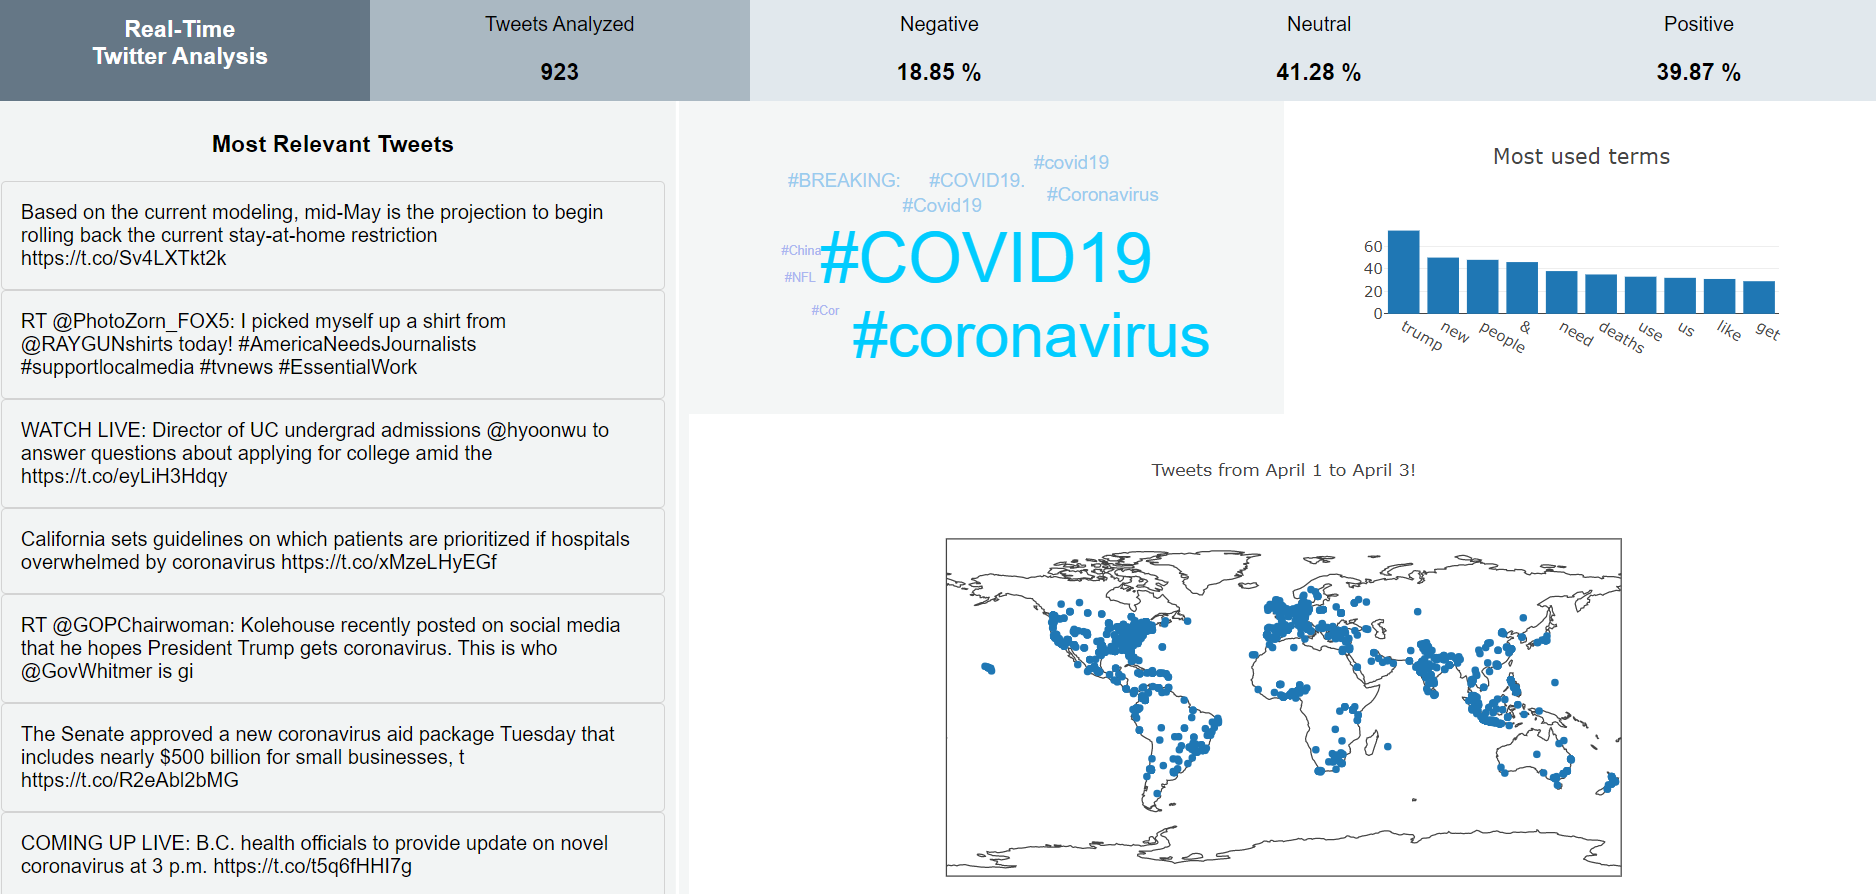
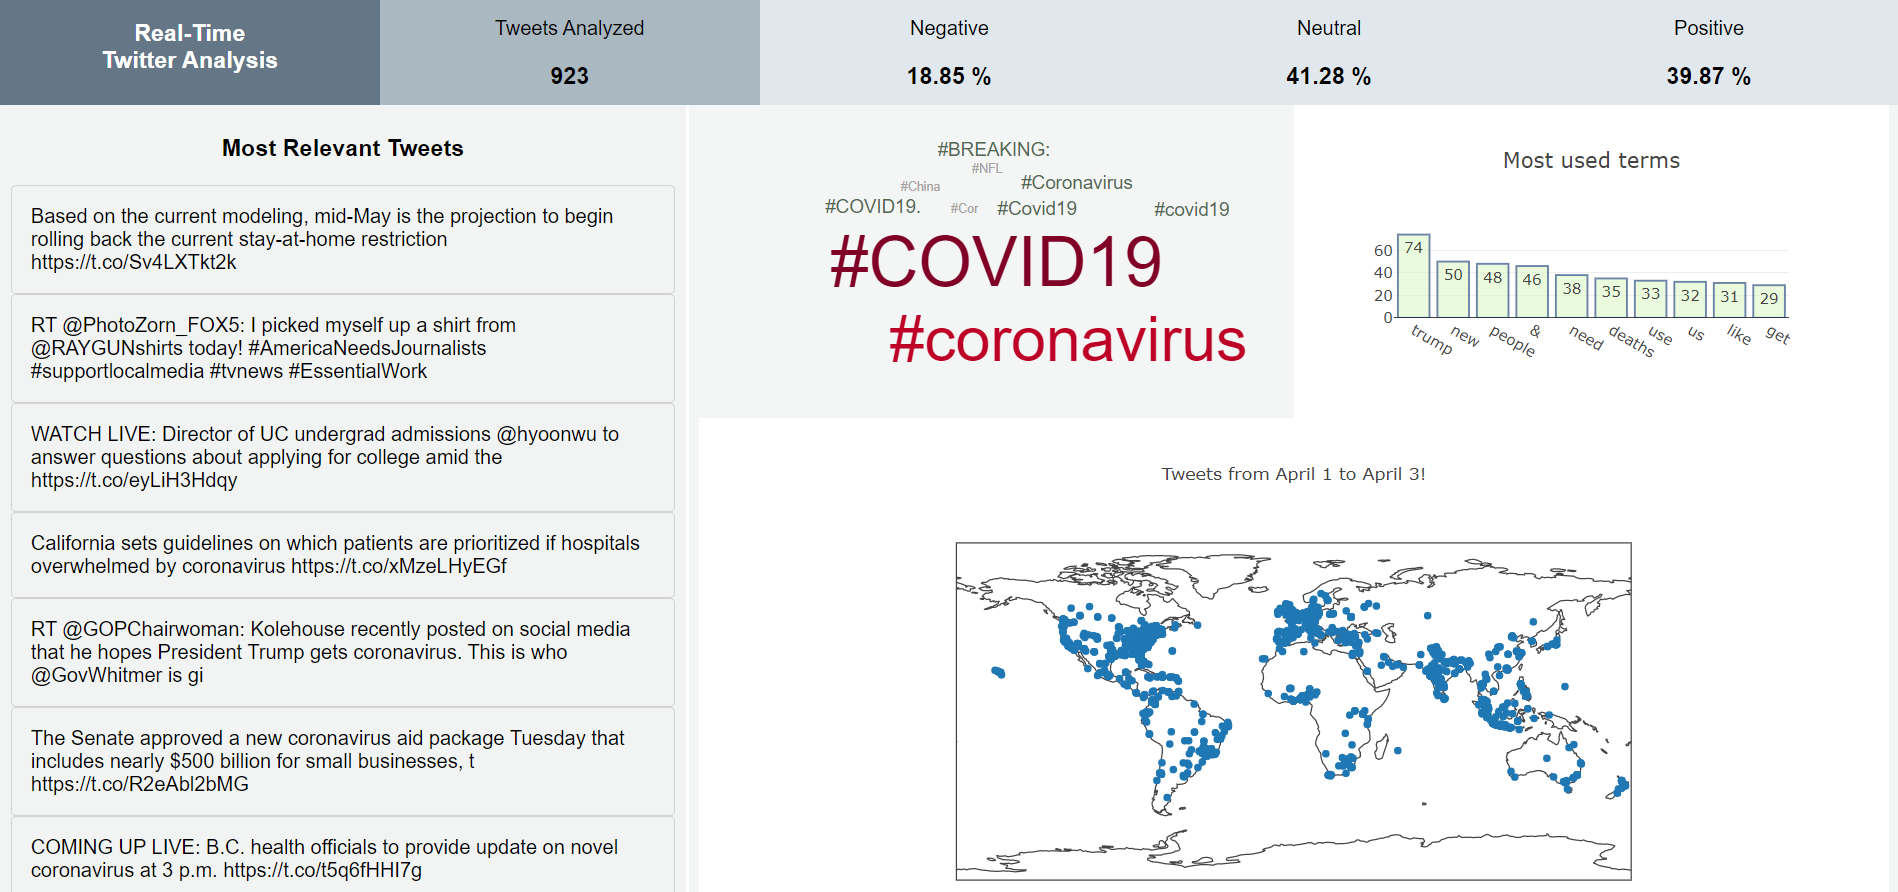
Change color of word cloud and bar chart.

diff --git a/FlaskDashBoard/static/css/jqcloud.css b/FlaskDashBoard/static/css/jqcloud.css
@@ -28,16 +28,16 @@ div.jqcloud { color: #09f; }
 div.jqcloud a { color: inherit; }
 div.jqcloud a:hover { color: #0df; }
 div.jqcloud a:hover { color: #0cf; }
-div.jqcloud span.w10 { color: #0cf; }
-div.jqcloud span.w9 { color: #0cf; }
-div.jqcloud span.w8 { color: #0cf; }
-div.jqcloud span.w7 { color: #39d; }
-div.jqcloud span.w6 { color: #90c5f0; }
-div.jqcloud span.w5 { color: #90a0dd; }
-div.jqcloud span.w4 { color: #90c5f0; }
-div.jqcloud span.w3 { color: #a0ddff; }
-div.jqcloud span.w2 { color: #99ccee; }
-div.jqcloud span.w1 { color: #aab5f0; }
+div.jqcloud span.w10 { color: #800026; }
+div.jqcloud span.w9 { color: #bd0026; }
+div.jqcloud span.w8 { color: #9b59b6; }
+div.jqcloud span.w7 { color: #3498db; }
+div.jqcloud span.w6 { color: #95a5a6; }
+div.jqcloud span.w5 { color: #e74c3c; }
+div.jqcloud span.w4 { color: #34495e; }
+div.jqcloud span.w3 { color: #2ecc71; }
+div.jqcloud span.w2 { color: #516951; }
+div.jqcloud span.w1 { color: #a8a2a2; }
 
 /* layout */
 

diff --git a/FlaskDashBoard/templates/index.html b/FlaskDashBoard/templates/index.html
@@ -59,11 +59,23 @@
 				var data = [{
 				    x: {{wordcounts['words'] | safe}},
 				    y: {{wordcounts['counts'] | safe}},
-				    type: 'bar'
+				    type: 'bar',
+				    text: wordcounts['counts'].map(String),
+				    textposition: 'auto',
+				    hoverinfo: 'none',
+				    marker: {
+					color: 'rgb(220, 248, 198)',
+					opacity: 0.6,
+					line: {
+						color: 'rgb(8, 48, 107)',
+						width: 1.5
+					}
+				    }
 				}];
 
 				var layout = {
 					title: 'Most used terms',
+					barmode: 'stack'
 				};
 
 				Plotly.newPlot('second', data, layout);

diff --git a/FlaskDashBoard/static/js/scripts2.js b/FlaskDashBoard/static/js/scripts2.js
@@ -37,11 +37,23 @@ setInterval(function(){
         var data = [{
 		x: counts_data['words'],
 		y: counts_data['counts'],
-		type: 'bar'
+		type: 'bar',
+		text: counts_data['counts'].map(String),
+		textposition: 'auto',
+		hoverinfo: 'none',
+		marker: {
+			color: 'rgb(220, 248, 198)',
+			opacity: 0.6,
+			line: {
+				color: 'rgb(8, 48, 107)',
+				width: 1.5
+			}
+		}
         }];
 
         var layout = {
 		title: 'Most used terms',
+		barmode: 'stack'
         };
 
         Plotly.newPlot('second', data, layout);
